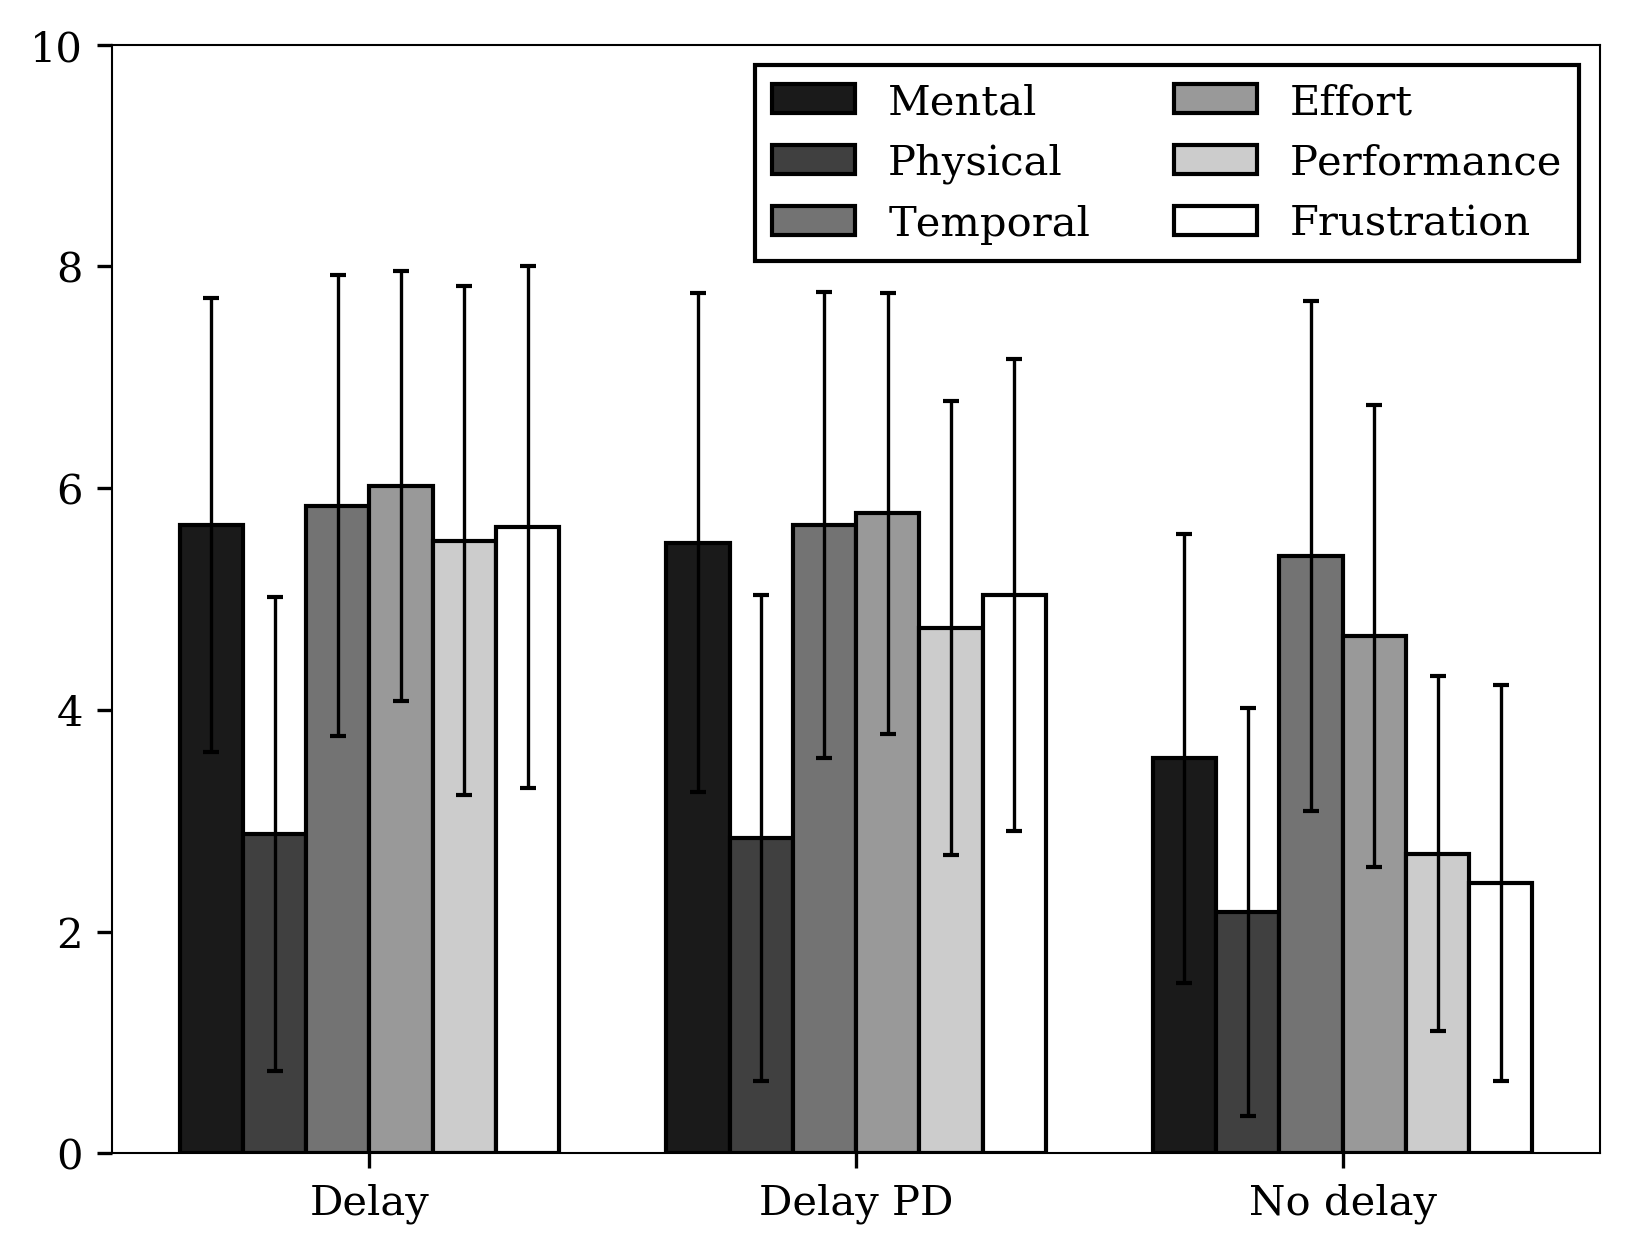
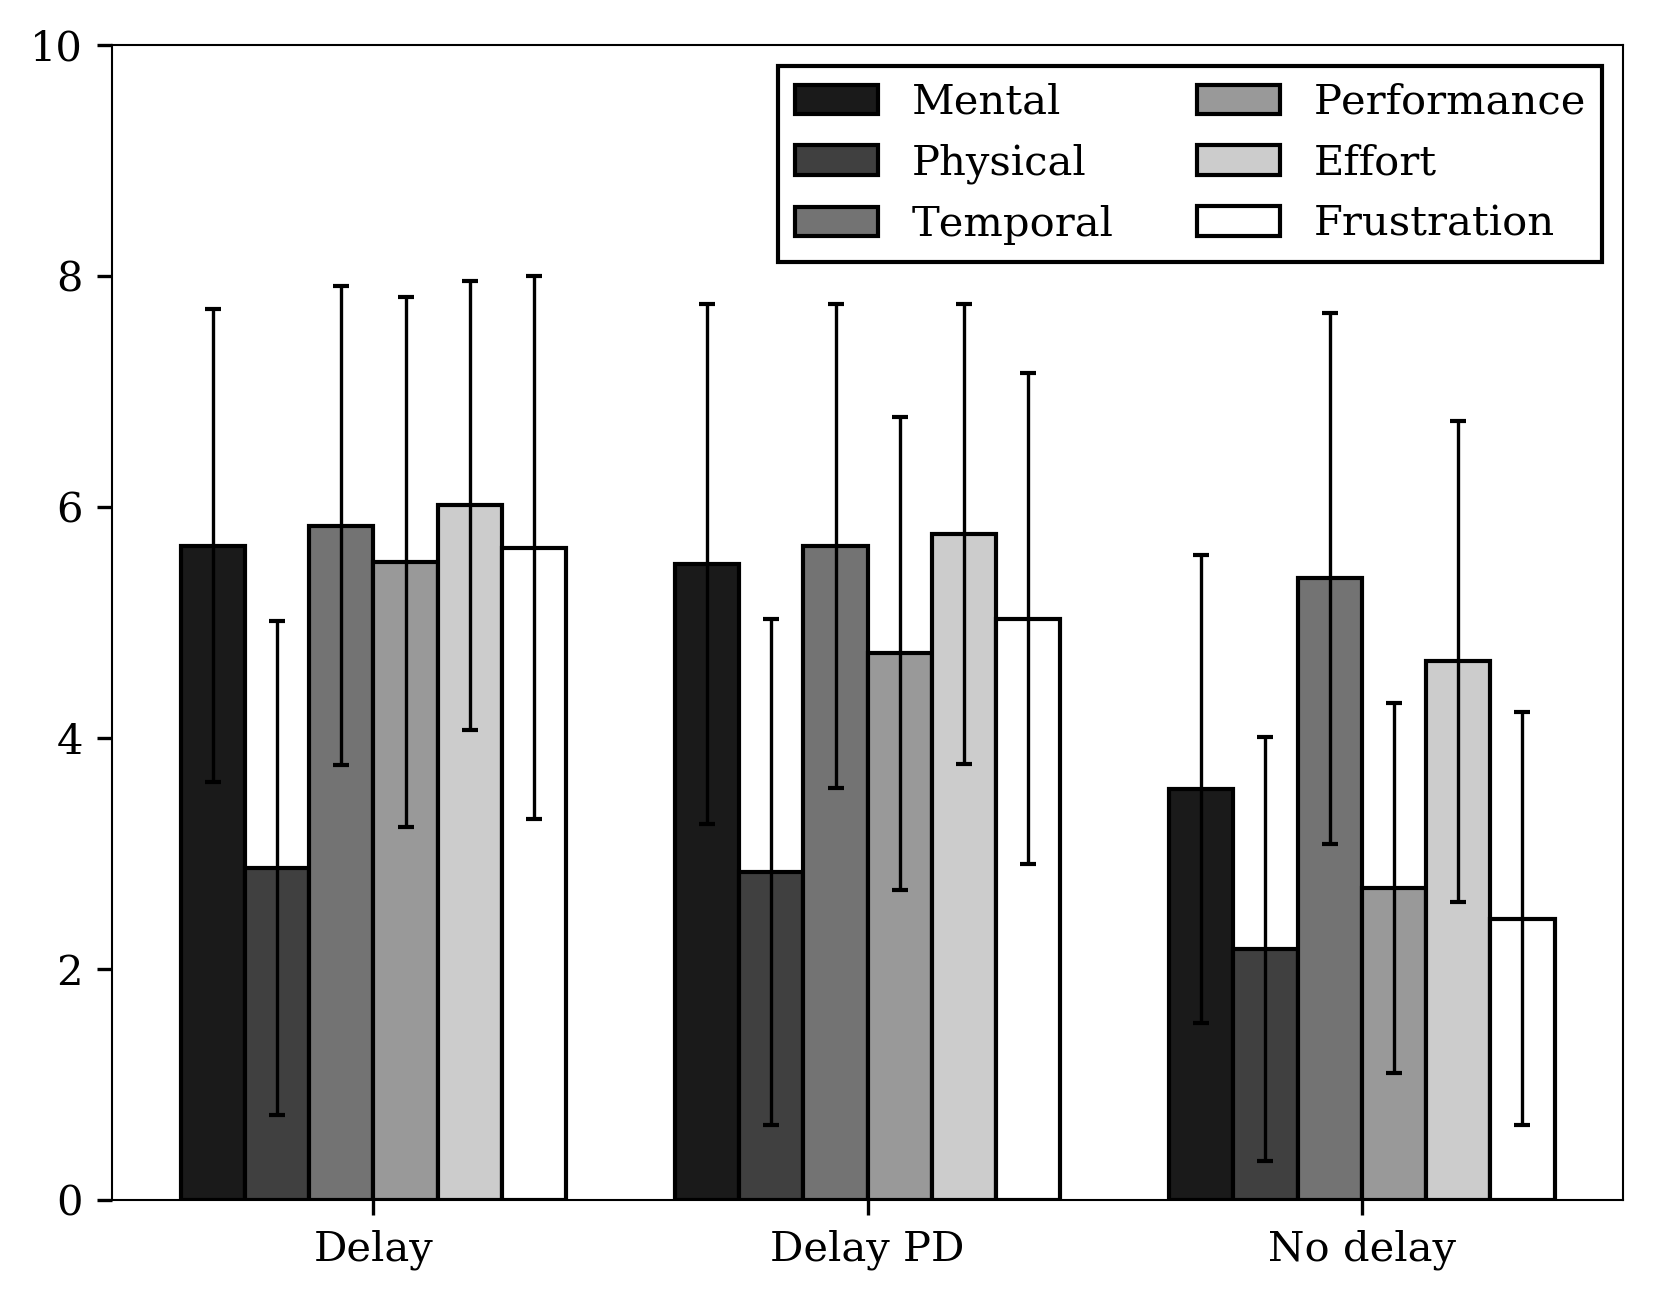
results

diff --git a/tex/method.tex b/tex/method.tex
@@ -14,22 +14,22 @@ The participants were voluntary selected from the NTNU Department of Mechanical 
 
 \begin{figure}[h!]
     \centering
-    \includegraphics[width=0.9\textwidth]{setup-2}
+    \includegraphics[width=0.8\textwidth]{setup-2}
     \caption{Experimental setup.}
     \label{expsetup}
 \end{figure}
 
 \figref{expsetup} shows an overview of the experimental setup. A 17 inch laptop running with a 2.3GHz Intel Core i7-3610QM CPU and Windows 10 together with the arrow keys were used as the operator's control device. This was connected to the ROV through a direct Ethernet connection. 
 
-The ROV, \figref{setup3}, was a three wheeled robot running a Raspberry Pi 3 Model B+. Two of the wheels where connected to each their DC-motor while the third one was a caster wheel for support. The ROV was equipped with a forward facing Raspberry Pi Camera V2 with a wide angle lens attached. The robot was running the eduROV software outlined in chapter \ref{chpEdurov}. This software was responsible for serving the control interface, handling control commands, logging experiment data and adding the desired latency to the communication. The robot was outside the field of view of the operator. The participants also wore an ear protection headset to remove audible feedback.
+The ROV, \figref{setup3}, was a three wheeled robot running a Raspberry Pi 3 Model B+. Two of the wheels where connected to each their DC-motor while the third one was a caster wheel for support. The ROV was equipped with a forward facing Raspberry Pi Camera V2. The camera ha a wide angle lens attached with a horizontal FOV of $76.5$ degrees. The robot was running the eduROV software outlined in chapter \ref{chpEdurov}. This software was responsible for serving the control interface, handling control commands, logging experiment data and adding the desired latency to the communication.
 
 A wooden box with three holes and LED's were used to register task performance. The distance between the holes (center to center) was $D=30cm$ while the holes itself has a width of $W=10cm$. This translates to a Fitts's \emph{index of difficulty} of $I_d=log_2\left ( 2D/W \right )=2.58\: bits$ \citep{Fitts1954}.
 
 \subsection{Task}\label{task}
 
-One by one, i random order, the round LED on the button box would light up. The operator was then tasked to maneuver the ROV such that the black peg would go inside the corresponding hole. A light sensor inside the hole would register this as a \emph{hit}. This would cause the LED to turn off and one of the other two to turn on. The participants were told to make as many \emph{hits} as possible in the course of 90 seconds.
+One by one, i random order, the round LED on the button box would turn on. The operator was then tasked to maneuver the ROV such that the black peg would go inside the corresponding hole. A light sensor inside the hole would register this as a \emph{hit}. This would cause the LED to turn off and one of the other two to turn on. The participants were told to make as many \emph{hits} as possible in the course of 90 seconds.
 
-The participants would repeat this task a total of three times, using three different displays / conditions. The order of these conditions followed a 3x3 Latin Square Design, to eliminate the order effect. Condition one had a total delay of 700 ms which included the inherent delay of the system 250ms, plus the added delay of 450 ms. Condition two had the same delay as condition one, but with the predictive display in effect. The third condition had no added delay and only the inherent delay of 250ms. No predictive technology was used in the third condition. The total latency of 700 ms were chosen because it's below the reported threshold for a "move and wait" strategy \citep{Chen2007} and above a what is considered a difficult level in many situations.
+The participants would repeat this task a total of three times, using three different displays / conditions. The order of these conditions followed a 3x3 Latin Square Design, to eliminate the order effect. Condition one had a total delay of 700 ms which included the inherent delay of the system 250ms, plus the added delay of 450 ms. Condition two had the same delay as condition one, but with the predictive display in effect. The third condition had no added delay and only the inherent delay of 250ms. No predictive technology was used in the third condition. The total latency of 700 ms were chosen because it's below the reported threshold for a "move and wait" strategy \citep{Chen2007} and above what is considered a difficult level in many situations.
 
 \begin{figure}[h!]
     \centering
@@ -40,7 +40,7 @@ The participants would repeat this task a total of three times, using three diff
 
 Many of the experiments previously mentioned in table \ref{reviewPred} used a single task and measured the task completion time in different conditions. This experiment however was designed with a single simple task and measured the achieved score in the course of a fixed time period. There are multiple reasons for this choice. 
 
-First, to reduce the learning effect that would accompany a longer maneuvering course. Some of the authors in table \ref{reviewPred} reported that the participants performed better for each try when they started to learn the obstacle course. It can be argued that a longer course would require more time to reduce the learning effect. 
+First, to reduce the learning effect that would accompany a longer maneuvering course. Some of the authors in table \ref{reviewPred} reported that the participants performed better for each try when they started to learn the obstacle course. I believe that a longer course would require more time to reduce the learning effect.
 
 Secondly, \citep{Chen2007} reported that the benefit of PD is very task dependent. An easy task was therefore chosen to minimize the effect that task complexity had on the performance results. 
 
@@ -48,27 +48,23 @@ Thirdly, some experiments with real or simulated driving have long stretches wit
 
 As a fourth argument, a fixed task time made the experiment length much more predictable. Subjects used on average 10 minutes and 56 seconds with a standard deviation of 1 min and 12 s to perform the whole experiment. This again made it easier to recruit new subjects. 
 
-As a last argument, the combination of score achievement and time pressure made the subjects fully devoted to the task at hand, such that they performed to their potential.
+As a last argument, the combination of score achievement and time pressure made the subjects fully devoted to the task at hand. This made them performed as close as possible to their potential.
 
 \section{Procedure}
 
-After entering the experiment room, the participants were able to look at the ROV with the button box to get a sense of situational awareness. From that point on, the subject was facing the other way and looking at the computer screen. All the necessary information was given on the screen.
+After entering the experiment room, the participants were able to look at the ROV with the button box to get a sense of situational awareness. From that point on, the subject was facing the other way, looking at the computer screen and with the robot outside their FOV. The participants also wore an ear protection headset to remove audible feedback. All the necessary information was given on the screen.
 
-First, the subject S was presented with an initial form collecting demographic data and an information page describing experiment theme, how to steer the robot, the participant's goal and how the experiment would proceed. This can be found in the appendix, page \textbf{TODO}. The S was then automatically assigned to a group as defined by subsection \ref{task}. S would then perform a 30 seconds long practice period followed by a 90 seconds long counting test. This was done repeatedly for all of the three conditions. At the end of each test, the S was asked to fill out a test questionnaire.  After each practice and test run, the ROV was repositioned to it's original position defined by the black markings in \figref{setup3}.
+First, the subject S was presented with an initial form collecting demographic data and an information page describing experiment theme, how to steer the robot, the participant's goal and how the experiment would proceed. This can be found in the appendix, page \textbf{TODO}. The S was then automatically assigned to a group as defined by subsection \ref{task}. The S then perform a 30 seconds long practice period followed by a 90 seconds long real test. This was done repeatedly for all of the three conditions. At the end of each test, the S was asked to fill out a test questionnaire.  After each practice and test run, the ROV was repositioned to it's original position defined by the black markings in \figref{setup3}.
 
 The S was \emph{not} told that one of the conditions would contain a predictor display or how the predictor display worked.
 
+\section{Data recording and analysis}
 
-\section{Data recording}
+All the data was recorded with the onboard computer on the ROV using a SQLite database. This included demographics, experiment questionnaire data, hits made by the subjects, number of key presses and more. Time stamp data was also recorded for each hit and the test start and end. A total of 11865 data points were collected during the testing period.
 
-All the data was recorded with the onboard computer on the ROV using a SQLite database. This included, demographics, experiment questionnaire data, hits made by the subjects, number of key presses and more. Time stamp data was also recorded for each hit and the test start and end. A total of 11865 data points were collected during the testing period.
+The test questionnaire that was completed for each condition included a NASA TLX (task load index) form \citep{Hart1988}, in addition the S had to guess the total delay that they just experienced. This questionnaire can be found in the appendix at page \textbf{TODO}. One modification were done to the NASA TLX form. During the preliminary experiment evaluation, a helper reported that he found it naturally to evaluate a good performance with a high score. In the original questionnaire a low values translates to a good performance. This metric and the corresponding description was reversed such that a high value would reflect a good performance. After data collection, this value was reversed back such that it can be reported inline with convention.
 
-The test questionnaire that was completed for each condition included a NASA TLX (task load index) form \citep{Hart1988}, in addition the S had to guess the total delay that they just experienced. This questionnaire can be found in the appendix at page \textbf{TODO}.
-
-\section{Performance analysis}
-
-
-The number of hit's made by the S in the course of 90 seconds was used to quantify performance. This score was normalized in the same way as \citep{Rachmielowski2010} and \citep{Lovi2014} did in their analysis. First, the S's number of hits in a specific condition is divided by the total number of hit's in all three conditions. It is then multiplied with the average score in that condition for all participants.
+The number of hit's made by the S in the course of 90 seconds was used to quantify performance. This score was normalized in the same way as \citep{Rachmielowski2010} and \citep{Lovi2014} did in their analysis. First, the S's number of hits in a specific condition was divided by the total number of hit's in all three conditions. It was then multiplied with the average score in that condition for all participants.
 
 To determine the statistical difference between conditions a two-sided paired sample t-test was used. In practice, this was calculated using the \texttt{scipy.stats.ttest\_rel} function which is a part of the SciPy python library. In the results section, the t-statistics is reported as \emph{t}, the two-tailed p-value as \emph{p} and the degrees of freedom $n-1$ as \emph{df}.
 

diff --git a/tex/results.tex b/tex/results.tex
@@ -1,6 +1,6 @@
 \section{Performance}
 
-\figref{performanceNorm} shows the normalized score, number of hits in 90 seconds, for each of the display types and all participants. A similar figure with non-normalized values can be found in the appendix at page \textbf{TODO}. \textit{Delay} refers to the \textit{added} delay, which means that "No delay" translates to the inherent system delay of $250 ms$. The numerical score values together with the standard deviation is reported in table \ref{score}. In addition, the percentage difference in means between displays is also reported in that table. The statistical significance and effect size between conditions can be seen in table \ref{score2}.
+\figref{performanceNorm} shows the normalized score, number of hits in 90 seconds, for each of the display types and all participants. A similar figure with non-normalized values can be found in the appendix at page \textbf{TODO}. \textit{Delay} refers to the \textit{added} delay, which means that "No delay" translates to the inherent system delay of $250 ms$. The numerical values together with the standard deviation (SD) is reported in table \ref{score}. In addition, the percentage difference in means between displays is also reported in that table. The statistical significance and effect size between conditions can be seen in table \ref{score2}.
 
 Using normalized scores, participants performed on average 20.29\% better using the predictive display versus no predictive display, $t(56)=4.82$, $p<.001$, $d=0.735$. In comparison, the subjects performed on average 153.32\% better in the no delay condition versus the delayed condition without predictive help, $t(56)=23.04$, $p<.001$, $d=4.413$. All differences are statistically significant.
 
@@ -17,12 +17,13 @@ Using normalized scores, participants performed on average 20.29\% better using 
 
 
 \section{Task load index}
-\todo[inline]{
-- NASA TLX
-}
+
+\figref{tlx} shows the reported NASA TLX scores. The height of the bar describes the mean value while the whiskers shows the SD. There are no big differences between condition one and two. The only significant differences between those two conditions can be found in the \emph{performance}, t(56)=3.24, p=0.002, d=0.360 and \emph{frustration}, t(56)=2.15, p=0.036, d=0.271 metric. This means that the subjects felt less frustration and evaluated their performance as better when using the predictive display.
+
 
 \begin{figure}[h!]
     \centering
     \includegraphics[scale=0.85]{nasa_tlx_bar}
-    \caption{NASA TLX (task load index) results for each display type}
+    \caption{NASA TLX (task load index) results for each display type. Lower is better.}
+    \label{tlx}
 \end{figure}

diff --git a/tex/intro.tex b/tex/intro.tex
@@ -31,10 +31,6 @@ Time delay introduces a situation where the operator's commands does not corresp
 A summary of some reports can be seen in table \ref{reviewPerf}. It shows the increase factor for different tasks and delay times. An increase factor of 1.40 is equal to a 40\% increase in task completion time. The actual detrimental effect of latency is very task dependent. In the table, the same increase factor of 1.5 can be found at 100ms for a needle-driving task, and in the robot car movement task at 2000ms.
 Some argue that task completion time increase linearly with delay time \citep{Ando1999}, \citep{Lane2002}. While others experience an exponential increase \citep{Xu2014}.
 
-\todo[inline]{
-- Fitt's law
-}
-
 \input{./tables/reviewPerf}
 
 The reasons for time delay can be many and is not the focus in this report. An overview can be seen in figure \textbf{TODO}. Some of the factors are distance between robot and operator, equipment technology, transfer method, interference, video compression, control algorithms efficiency and many more.
@@ -53,9 +49,10 @@ Lastly, as a third option, there is the use of \emph{predictive technology}. The
 
 \section{Predictive technology}
 
-\input{./tables/reviewPred}
 
 Table \ref{reviewPred} shows a summary of some experiments that has been done in the field of predictive technology. Some of the papers do not report numerical values, the \emph{task time reduction} is then reported as an estimation from graphs. The experiments spans a wide variety of robot configurations, experiment tasks and predictive methods and can not necessary be compared directly.
+
+\input{./tables/reviewPred}
 
 The robot system can be roughly divided into two main groups; either the robot configuration can be exactly calculated in real time. This includes robot arm manipulators fixed to a defined reference frame where it's configuration is a result of user input only. Or secondly, the robot configuration is subjected to external forces or freely floating. ROV's typically goes in this group since they are able to move around in the environment. This makes the prediction more complicated because unknown and changing external factors has to be considered.
 

diff --git a/tex/predictor.tex b/tex/predictor.tex
@@ -67,7 +67,7 @@ The horizontal pixel displacement $P_h$ is initialized as zero. Then, the \texts
 
 \figref{predictorvis} shows the predictor display implemented in the experiment, which is explained in chapter \ref{chpMethod}. It contains the video feed from the ROV, in addition to a red arrow to visualize the prediction. The operator has recently turned the ROV to the right, and as a result the movie has moved to the left. The red arrow has not moved and works as an indication of where the ROV will be heading when the video feed has caught up with the time delay. To see how this works in practice, the reader can visit the link \textbf{TODO} to watch a video of the predictor screen.
 
-The operator views the predictor screen through a web browser. The predictor algorithm is written in java script and the video feed is moved around by changing css margin properties. The code can viewed in it's entirety in the appendix part \textbf{TODO}.
+The operator views the predictor screen through a web browser. The predictor algorithm is written in java script and the video feed is moved around by changing css margin properties. The code can viewed in it's entirety in the appendix, part \textbf{TODO}.
 
 \begin{figure}[h!]
     \centering

diff --git a/tables/reviewPred.tex b/tables/reviewPred.tex
@@ -1,4 +1,4 @@
-\begin{wraptable}{r}{0.4\textwidth}
+\begin{wraptable}{o}[20pt]{0.45\textwidth}
 \sbox0{
 \resizebox{0.8\paperheight}{!}{
 \begin{tabular}{@{}llllllll@{}}
@@ -19,7 +19,7 @@ Author                   & Robot system              & Task                     
 \end{tabular}
 }
 }
-\rotatebox{-90}{%
+\rotatebox{90}{%
 \parbox{\wd0}{\centering
 \caption{Predictive technology experiments with task time reduction. Ordered by date. Some values estimated from graphs.}
 \label{reviewPred}

diff --git a/main.tex b/main.tex
@@ -16,12 +16,14 @@
 
 {\setstretch{1.0}
 \tableofcontents
-\clearpage
+
 \addcontentsline{toc}{chapter}{\listfigurename}
 \listoffigures
+\cleardoublepage
 
 \addcontentsline{toc}{chapter}{\listtablename}
 \listoftables
+\cleardoublepage
 }
 {\setstretch{1.5}
 \pagenumbering{arabic}
